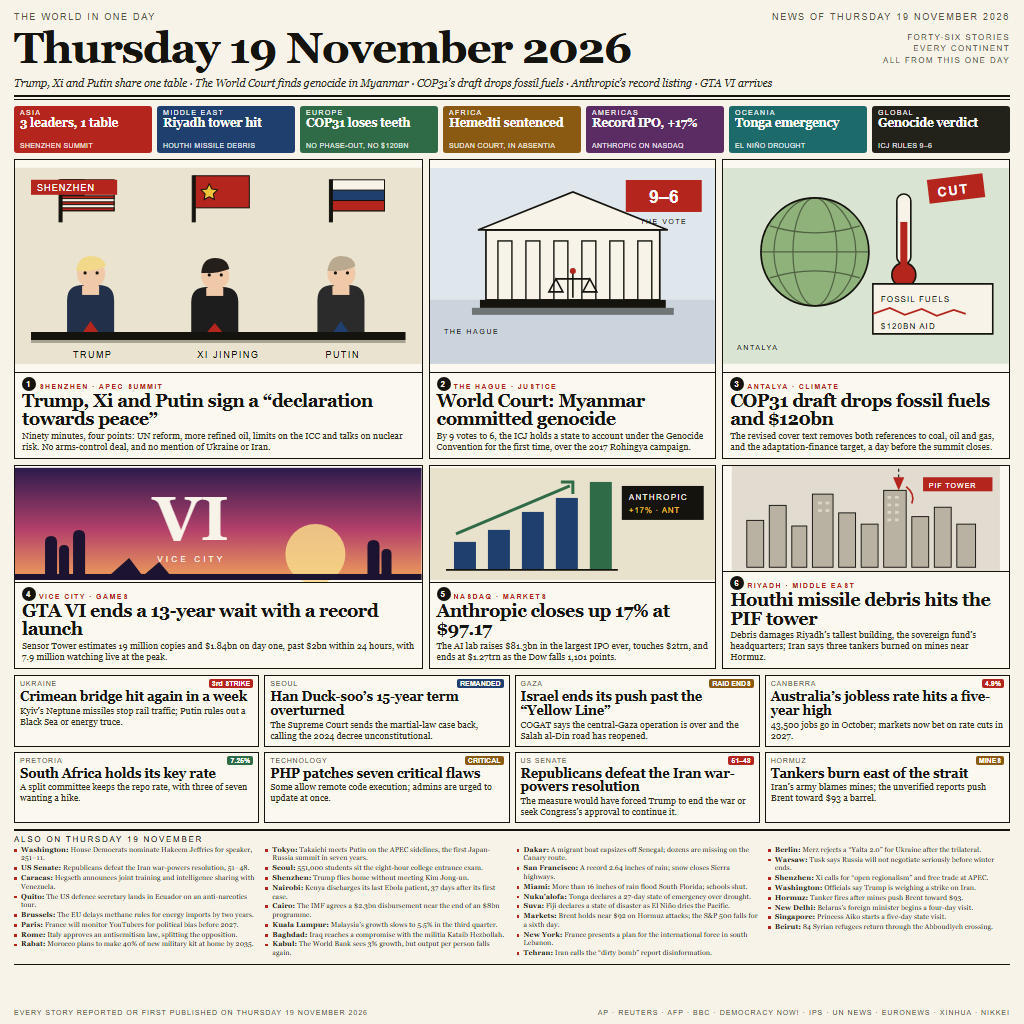
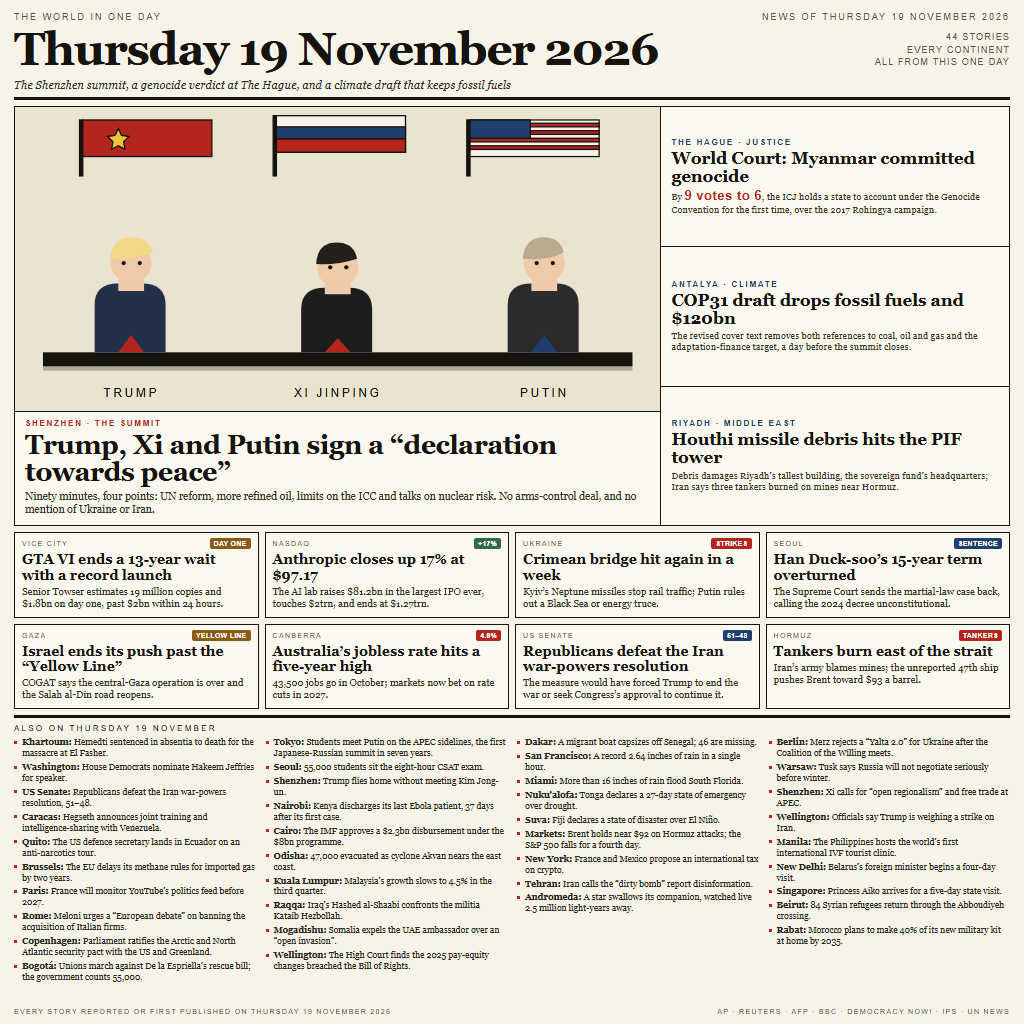
Add a hierarchy-first front page: one lead, three follow-ups

diff --git a/design/v4-hierarchy.html b/design/v4-hierarchy.html
@@ -1,0 +1,239 @@
+<!doctype html>
+<html lang="en">
+<head>
+<meta charset="utf-8">
+<title>Thursday 19 November 2026 — one lead, three follow-ups</title>
+<style>
+  * { box-sizing: border-box; margin: 0; padding: 0; }
+  html, body { width: 1024px; height: 1024px; }
+  body { background: #f7f3e8; color: #14130e; font-family: Georgia, "Times New Roman", serif; -webkit-font-smoothing: antialiased; }
+  .page { width: 1024px; height: 1024px; padding: 12px 14px 8px; display: flex; flex-direction: column; gap: 6px; }
+
+  .hrow { display: flex; justify-content: space-between; align-items: baseline; font-family: Arial, Helvetica, sans-serif;
+    font-size: 9px; letter-spacing: 2px; text-transform: uppercase; color: #57543f; }
+  .mast { display: flex; align-items: flex-end; justify-content: space-between; }
+  h1 { font-size: 46px; line-height: .94; letter-spacing: -1.4px; font-weight: 700; }
+  .mastnote { text-align: right; font-family: Arial, Helvetica, sans-serif; font-size: 8.5px; letter-spacing: 1.5px;
+    text-transform: uppercase; color: #57543f; line-height: 1.45; padding-bottom: 3px; }
+  .sub { font-size: 11.4px; font-style: italic; color: #2f2d22; margin-top: 2px; }
+  .rule2 { border-top: 3px solid #14130e; }
+  .rule1 { border-top: 1.4px solid #14130e; }
+
+  .hero { display: grid; grid-template-columns: 1.86fr 1fr; gap: 0; border: 1.6px solid #14130e; background: #fbf8ef; height: 420px; }
+  .lead { display: flex; flex-direction: column; border-right: 1.6px solid #14130e; overflow: hidden; }
+  .lead .art { flex: 1; min-height: 0; }
+  .lead .art svg { width: 100%; height: 100%; display: block; }
+  .lead .cap { padding: 7px 10px 9px; border-top: 1.6px solid #14130e; }
+  .k { font-family: Arial, Helvetica, sans-serif; font-size: 8px; letter-spacing: 1.7px; text-transform: uppercase; color: #b3251d; font-weight: 700; }
+  .lead h2 { font-size: 27px; line-height: 1.02; letter-spacing: -.55px; margin: 3px 0 4px; }
+  .lead p { font-size: 10.6px; line-height: 1.25; color: #33311f; }
+
+  .side { display: flex; flex-direction: column; }
+  .sitem { flex: 1; padding: 8px 10px; display: flex; flex-direction: column; justify-content: center; }
+  .sitem + .sitem { border-top: 1.4px solid #14130e; }
+  .sitem .k { color: #1f3f6e; }
+  .sitem h3 { font-size: 17.4px; line-height: 1.04; letter-spacing: -.3px; margin: 2px 0 3px; }
+  .sitem p { font-size: 9.4px; line-height: 1.22; color: #33311f; }
+  .sitem .big { font-family: Arial, Helvetica, sans-serif; font-weight: 700; font-size: 13px; letter-spacing: .5px; color: #b3251d; }
+
+  .cards { display: grid; grid-template-columns: repeat(4, 1fr); gap: 6px; }
+  .card { border: 1.3px solid #14130e; background: #fbf8ef; padding: 5px 7px 7px; display: flex; flex-direction: column; }
+  .card .top { display: flex; align-items: center; justify-content: space-between; margin-bottom: 3px; }
+  .card .tag { font-family: Arial, Helvetica, sans-serif; font-size: 7.2px; letter-spacing: 1.2px; text-transform: uppercase; color: #57543f; }
+  .card h3 { font-size: 14.4px; line-height: 1.06; margin-bottom: 3px; letter-spacing: -.15px; }
+  .card p { font-size: 9.8px; line-height: 1.22; color: #33311f; }
+  .card .badge { font-family: Arial, Helvetica, sans-serif; font-size: 7.4px; font-weight: 700; padding: 1px 4px; border-radius: 2px; color: #fff; }
+
+  .ticker { border-top: 3px solid #14130e; padding-top: 5px; display: grid; grid-template-columns: repeat(4, 1fr); gap: 0 10px; }
+  .ticker .h { grid-column: 1 / -1; font-family: Arial, Helvetica, sans-serif; font-size: 8.4px; letter-spacing: 2px;
+    text-transform: uppercase; color: #14130e; margin-bottom: 4px; }
+  .item { font-size: 8.7px; line-height: 1.26; padding-left: 8px; position: relative; margin-bottom: 3px; color: #26251b; }
+  .item:before { content: ""; position: absolute; left: 0; top: 3.6px; width: 3px; height: 3px; background: #b3251d; }
+  .item b { font-weight: 700; }
+
+  .foot { margin-top: auto; display: flex; justify-content: space-between; font-family: Arial, Helvetica, sans-serif;
+    font-size: 7.2px; letter-spacing: 1.2px; text-transform: uppercase; color: #57543f; }
+</style>
+</head>
+<body>
+<div class="page">
+
+  <div class="hrow"><span>The world in one day</span><span>News of Thursday 19 November 2026</span></div>
+  <div class="mast">
+    <h1>Thursday 19 November 2026</h1>
+    <div class="mastnote">44 stories<br>Every continent<br>All from this one day</div>
+  </div>
+  <div class="sub">The Shenzhen summit, a genocide verdict at The Hague, and a climate draft that keeps fossil fuels</div>
+  <div class="rule2"></div>
+
+  <div class="hero">
+    <div class="lead">
+      <div class="art">
+        <svg viewBox="0 0 600 290" preserveAspectRatio="xMidYMid slice">
+          <rect width="600" height="290" fill="#e9e3cf"/>
+          <g stroke="#14130e" stroke-width="1.2">
+            <rect x="60" y="16" width="3" height="52" fill="#14130e"/>
+            <rect x="63" y="16" width="120" height="34" fill="#b3251d"/>
+            <path d="M96 24 l3 6.4 7 1 -5 4.9 1.2 7 -6.2-3.4 -6.2 3.4 1.2-7 -5-4.9 7-1z" fill="#f0c33c"/>
+            <rect x="240" y="12" width="3" height="56" fill="#14130e"/>
+            <rect x="243" y="12" width="120" height="34" fill="#f7f3e8"/>
+            <rect x="243" y="22.4" width="120" height="11.2" fill="#1f3f6e"/>
+            <rect x="243" y="33.6" width="120" height="12.4" fill="#b3251d"/>
+            <rect x="420" y="16" width="3" height="52" fill="#14130e"/>
+            <rect x="423" y="16" width="120" height="34" fill="#f7f3e8"/>
+            <g fill="#b3251d"><rect x="423" y="19" width="120" height="3.4"/><rect x="423" y="26" width="120" height="3.4"/><rect x="423" y="33" width="120" height="3.4"/><rect x="423" y="40" width="120" height="3.4"/></g>
+            <rect x="423" y="16" width="56" height="17" fill="#1f3f6e"/>
+          </g>
+          <rect x="26" y="232" width="548" height="13" fill="#14130e"/>
+          <rect x="26" y="245" width="548" height="4" fill="#14130e" opacity=".28"/>
+          <g>
+            <path d="M74 232 v-44 q0-20 22-20 h22 q22 0 22 20 v44z" fill="#22304a"/>
+            <path d="M96 164 h24 v11 h-24z" fill="#f0c9a8"/>
+            <circle cx="108" cy="149" r="19" fill="#f0c9a8"/>
+            <path d="M88 145 q2-20 20-20 q17 0 20 14 q-16 8-40 6z" fill="#f2d98a"/>
+            <circle cx="101" cy="149" r="2" fill="#14130e"/><circle cx="116" cy="149" r="2" fill="#14130e"/>
+            <path d="M96 232 h24 l-12-16z" fill="#b3251d"/>
+          </g>
+          <g>
+            <path d="M266 232 v-40 q0-20 22-20 h22 q22 0 22 20 v40z" fill="#1d1d1d"/>
+            <path d="M288 168 h24 v10 h-24z" fill="#f0c9a8"/>
+            <circle cx="300" cy="153" r="19" fill="#f0c9a8"/>
+            <path d="M280 150 q1-20 19-20 q16 0 19 15 q-18 6-38 5z" fill="#241f1a"/>
+            <circle cx="293" cy="153" r="2" fill="#14130e"/><circle cx="308" cy="153" r="2" fill="#14130e"/>
+            <path d="M288 232 h24 l-12-13z" fill="#b3251d"/>
+          </g>
+          <g>
+            <path d="M458 232 v-44 q0-20 22-20 h22 q22 0 22 20 v44z" fill="#2b2b2b"/>
+            <path d="M480 164 h24 v11 h-24z" fill="#f0c9a8"/>
+            <circle cx="492" cy="149" r="19" fill="#f0c9a8"/>
+            <path d="M472 145 q2-20 19-20 q16 0 19 14 q-12 8-38 6z" fill="#b9a98e"/>
+            <circle cx="485" cy="149" r="2" fill="#14130e"/><circle cx="500" cy="149" r="2" fill="#14130e"/>
+            <path d="M480 232 h24 l-12-16z" fill="#1f3f6e"/>
+          </g>
+          <g font-family="Arial" font-size="11.5" letter-spacing="2.2" fill="#14130e" text-anchor="middle">
+            <text x="108" y="274">TRUMP</text><text x="300" y="274">XI JINPING</text><text x="492" y="274">PUTIN</text>
+          </g>
+        </svg>
+      </div>
+      <div class="cap">
+        <div class="k">Shenzhen &middot; The summit</div>
+        <h2>Trump, Xi and Putin sign a &ldquo;declaration towards peace&rdquo;</h2>
+        <p>Ninety minutes, four points: UN reform, more refined oil, limits on the ICC and talks on nuclear risk. No arms-control deal, and no mention of Ukraine or Iran.</p>
+      </div>
+    </div>
+    <div class="side">
+      <div class="sitem">
+        <div class="k">The Hague &middot; Justice</div>
+        <h3>World Court: Myanmar committed genocide</h3>
+        <p>By <span class="big">9 votes to 6</span>, the ICJ holds a state to account under the Genocide Convention for the first time, over the 2017 Rohingya campaign.</p>
+      </div>
+      <div class="sitem">
+        <div class="k">Antalya &middot; Climate</div>
+        <h3>COP31 draft drops fossil fuels and $120bn</h3>
+        <p>The revised cover text removes both references to coal, oil and gas and the adaptation-finance target, a day before the summit closes.</p>
+      </div>
+      <div class="sitem">
+        <div class="k">Riyadh &middot; Middle East</div>
+        <h3>Houthi missile debris hits the PIF tower</h3>
+        <p>Debris damages Riyadh&rsquo;s tallest building, the sovereign fund&rsquo;s headquarters; Iran says three tankers burned on mines near Hormuz.</p>
+      </div>
+    </div>
+  </div>
+
+  <div class="cards">
+    <div class="card">
+      <div class="top"><span class="tag">Vice City</span><span class="badge" style="background:#8a5a12">DAY ONE</span></div>
+      <h3>GTA VI ends a 13-year wait with a record launch</h3>
+      <p>Senior Towser estimates 19 million copies and $1.8bn on day one, past $2bn within 24 hours.</p>
+    </div>
+    <div class="card">
+      <div class="top"><span class="tag">Nasdaq</span><span class="badge" style="background:#2f6b46">+17%</span></div>
+      <h3>Anthropic closes up 17% at $97.17</h3>
+      <p>The AI lab raises $81.2bn in the largest IPO ever, touches $2trn, and ends at $1.27trn.</p>
+    </div>
+    <div class="card">
+      <div class="top"><span class="tag">Ukraine</span><span class="badge" style="background:#b3251d">STRIKES</span></div>
+      <h3>Crimean bridge hit again in a week</h3>
+      <p>Kyiv&rsquo;s Neptune missiles stop rail traffic; Putin rules out a Black Sea or energy truce.</p>
+    </div>
+    <div class="card">
+      <div class="top"><span class="tag">Seoul</span><span class="badge" style="background:#1f3f6e">SENTENCE</span></div>
+      <h3>Han Duck-soo&rsquo;s 15-year term overturned</h3>
+      <p>The Supreme Court sends the martial-law case back, calling the 2024 decree unconstitutional.</p>
+    </div>
+    <div class="card">
+      <div class="top"><span class="tag">Gaza</span><span class="badge" style="background:#8a5a12">YELLOW LINE</span></div>
+      <h3>Israel ends its push past the &ldquo;Yellow Line&rdquo;</h3>
+      <p>COGAT says the central-Gaza operation is over and the Salah al-Din road reopens.</p>
+    </div>
+    <div class="card">
+      <div class="top"><span class="tag">Canberra</span><span class="badge" style="background:#b3251d">4.9%</span></div>
+      <h3>Australia&rsquo;s jobless rate hits a five-year high</h3>
+      <p>43,500 jobs go in October; markets now bet on rate cuts in 2027.</p>
+    </div>
+    <div class="card">
+      <div class="top"><span class="tag">US Senate</span><span class="badge" style="background:#1f3f6e">51&ndash;48</span></div>
+      <h3>Republicans defeat the Iran war-powers resolution</h3>
+      <p>The measure would have forced Trump to end the war or seek Congress&rsquo;s approval to continue it.</p>
+    </div>
+    <div class="card">
+      <div class="top"><span class="tag">Hormuz</span><span class="badge" style="background:#b3251d">TANKERS</span></div>
+      <h3>Tankers burn east of the strait</h3>
+      <p>Iran&rsquo;s army blames mines; the unreported 47th ship pushes Brent toward $93 a barrel.</p>
+    </div>
+  </div>
+
+  <div class="ticker">
+    <div class="h">Also on Thursday 19 November</div>
+    <div>
+      <div class="item"><b>Khartoum:</b> Hemedti sentenced in absentia to death for the massacre at El Fasher.</div>
+      <div class="item"><b>Washington:</b> House Democrats nominate Hakeem Jeffries for speaker.</div>
+      <div class="item"><b>US Senate:</b> Republicans defeat the Iran war-powers resolution, 51&ndash;48.</div>
+      <div class="item"><b>Caracas:</b> Hegseth announces joint training and intelligence-sharing with Venezuela.</div>
+      <div class="item"><b>Quito:</b> The US defence secretary lands in Ecuador on an anti-narcotics tour.</div>
+      <div class="item"><b>Brussels:</b> The EU delays its methane rules for imported gas by two years.</div>
+      <div class="item"><b>Paris:</b> France will monitor YouTube&rsquo;s politics feed before 2027.</div>
+      <div class="item"><b>Rome:</b> Meloni urges a &ldquo;European debate&rdquo; on banning the acquisition of Italian firms.</div>
+      <div class="item"><b>Copenhagen:</b> Parliament ratifies the Arctic and North Atlantic security pact with the US and Greenland.</div>
+      <div class="item"><b>Bogot&aacute;:</b> Unions march against De la Espriella&rsquo;s rescue bill; the government counts 55,000.</div>
+    </div>
+    <div>
+      <div class="item"><b>Tokyo:</b> Students meet Putin on the APEC sidelines, the first Japanese-Russian summit in seven years.</div>
+      <div class="item"><b>Seoul:</b> 55,000 students sit the eight-hour CSAT exam.</div>
+      <div class="item"><b>Shenzhen:</b> Trump flies home without meeting Kim Jong-un.</div>
+      <div class="item"><b>Nairobi:</b> Kenya discharges its last Ebola patient, 37 days after its first case.</div>
+      <div class="item"><b>Cairo:</b> The IMF approves a $2.3bn disbursement under the $8bn programme.</div>
+      <div class="item"><b>Odisha:</b> 47,000 evacuated as cyclone Akvan nears the east coast.</div>
+      <div class="item"><b>Kuala Lumpur:</b> Malaysia&rsquo;s growth slows to 4.5% in the third quarter.</div>
+      <div class="item"><b>Raqqa:</b> Iraq&rsquo;s Hashed al-Shaabi confronts the militia Kataib Hezbollah.</div>
+      <div class="item"><b>Mogadishu:</b> Somalia expels the UAE ambassador over an &ldquo;open invasion&rdquo;.</div>
+      <div class="item"><b>Wellington:</b> The High Court finds the 2025 pay-equity changes breached the Bill of Rights.</div>
+    </div>
+    <div>
+      <div class="item"><b>Dakar:</b> A migrant boat capsizes off Senegal; 46 are missing.</div>
+      <div class="item"><b>San Francisco:</b> A record 2.64 inches of rain in a single hour.</div>
+      <div class="item"><b>Miami:</b> More than 16 inches of rain flood South Florida.</div>
+      <div class="item"><b>Nuku&rsquo;alofa:</b> Tonga declares a 27-day state of emergency over drought.</div>
+      <div class="item"><b>Suva:</b> Fiji declares a state of disaster over El Ni&ntilde;o.</div>
+      <div class="item"><b>Markets:</b> Brent holds near $92 on Hormuz attacks; the S&amp;P 500 falls for a fourth day.</div>
+      <div class="item"><b>New York:</b> France and Mexico propose an international tax on crypto.</div>
+      <div class="item"><b>Tehran:</b> Iran calls the &ldquo;dirty bomb&rdquo; report disinformation.</div>
+      <div class="item"><b>Andromeda:</b> A star swallows its companion, watched live 2.5 million light-years away.</div>
+    </div>
+    <div>
+      <div class="item"><b>Berlin:</b> Merz rejects a &ldquo;Yalta 2.0&rdquo; for Ukraine after the Coalition of the Willing meets.</div>
+      <div class="item"><b>Warsaw:</b> Tusk says Russia will not negotiate seriously before winter.</div>
+      <div class="item"><b>Shenzhen:</b> Xi calls for &ldquo;open regionalism&rdquo; and free trade at APEC.</div>
+      <div class="item"><b>Wellington:</b> Officials say Trump is weighing a strike on Iran.</div>
+      <div class="item"><b>Manila:</b> The Philippines hosts the world&rsquo;s first international IVF tourist clinic.</div>
+      <div class="item"><b>New Delhi:</b> Belarus&rsquo;s foreign minister begins a four-day visit.</div>
+      <div class="item"><b>Singapore:</b> Princess Aiko arrives for a five-day state visit.</div>
+      <div class="item"><b>Beirut:</b> 84 Syrian refugees return through the Abboudiyeh crossing.</div>
+      <div class="item"><b>Rabat:</b> Morocco plans to make 40% of its new military kit at home by 2035.</div>
+    </div>
+  </div>
+
+  <div class="foot"><span>Every story reported or first published on Thursday 19 November 2026</span><span>AP &middot; Reuters &middot; AFP &middot; BBC &middot; Democracy Now! &middot; IPS &middot; UN News</span></div>
+</div>
+</body>
+</html>

diff --git a/design/v5-numbers.html b/design/v5-numbers.html
@@ -1,0 +1,151 @@
+<!doctype html>
+<html lang="en">
+<head>
+<meta charset="utf-8">
+<title>Thursday 19 November 2026 — the day in numbers</title>
+<style>
+  * { box-sizing: border-box; margin: 0; padding: 0; }
+  html, body { width: 1024px; height: 1024px; }
+  body { background: #f7f3e8; color: #14130e; font-family: Georgia, "Times New Roman", serif; -webkit-font-smoothing: antialiased; }
+  .page { width: 1024px; height: 1024px; padding: 12px 14px 8px; display: flex; flex-direction: column; gap: 7px; }
+
+  .hrow { display: flex; justify-content: space-between; align-items: baseline; font-family: Arial, Helvetica, sans-serif;
+    font-size: 9px; letter-spacing: 2px; text-transform: uppercase; color: #57543f; }
+  .mast { display: flex; align-items: flex-end; justify-content: space-between; }
+  h1 { font-size: 46px; line-height: .94; letter-spacing: -1.4px; font-weight: 700; }
+  .mastnote { text-align: right; font-family: Arial, Helvetica, sans-serif; font-size: 8.5px; letter-spacing: 1.5px;
+    text-transform: uppercase; color: #57543f; line-height: 1.45; padding-bottom: 3px; }
+  .sub { font-size: 11.4px; font-style: italic; color: #2f2d22; margin-top: 2px; }
+  .rule2 { border-top: 3px solid #14130e; }
+
+  .stats { display: grid; grid-template-columns: repeat(4, 1fr); grid-template-rows: repeat(2, 1fr); gap: 8px; flex: 1; min-height: 0; }
+  .stat { border: 1.5px solid #14130e; background: #fbf8ef; padding: 8px 10px 9px; display: flex; flex-direction: column; overflow: hidden; position: relative; }
+  .stat::after { content: attr(data-wm); position: absolute; right: -4px; bottom: -30px; font-family: Arial, Helvetica, sans-serif;
+    font-weight: 700; font-size: 168px; letter-spacing: -8px; line-height: 1; color: rgba(20,19,14,.055); pointer-events: none; }
+  .stat .top { height: 5px; margin: -8px -10px 7px; }
+  .stat .n { font-family: Arial, Helvetica, sans-serif; font-size: 62px; line-height: .92; font-weight: 700; letter-spacing: -2.4px; }
+  .stat .l { font-family: Arial, Helvetica, sans-serif; font-size: 7.8px; letter-spacing: 1.5px; text-transform: uppercase; color: #57543f; margin: 5px 0 4px; }
+  .stat h3 { font-size: 17.6px; line-height: 1.04; letter-spacing: -.3px; margin-bottom: 4px; }
+  .stat p { margin-top: 8px; font-size: 10.2px; line-height: 1.24; color: #33311f; border-top: 1px solid rgba(20,19,14,.25); padding-top: 6px; position: relative; z-index: 1; }
+  .c1 { background: #b3251d; } .c2 { background: #1f3f6e; } .c3 { background: #2f6b46; } .c4 { background: #8a5a12; }
+  .c5 { background: #5b2b63; } .c6 { background: #1c6a6a; } .c7 { background: #23221a; } .c8 { background: #7a2418; }
+
+  .list { border-top: 3px solid #14130e; padding-top: 5px; display: grid; grid-template-columns: repeat(3, 1fr); gap: 0 12px; }
+  .list .h { grid-column: 1 / -1; font-family: Arial, Helvetica, sans-serif; font-size: 8.4px; letter-spacing: 2px;
+    text-transform: uppercase; color: #14130e; margin-bottom: 4px; }
+  .item { font-size: 9.2px; line-height: 1.26; padding-left: 8px; position: relative; margin-bottom: 4px; color: #26251b; }
+  .item:before { content: ""; position: absolute; left: 0; top: 3.6px; width: 3px; height: 3px; background: #b3251d; }
+  .item b { font-weight: 700; }
+
+  .foot { margin-top: auto; display: flex; justify-content: space-between; font-family: Arial, Helvetica, sans-serif;
+    font-size: 7.2px; letter-spacing: 1.2px; text-transform: uppercase; color: #57543f; }
+</style>
+</head>
+<body>
+<div class="page">
+
+  <div class="hrow"><span>The world in one day</span><span>News of Thursday 19 November 2026</span></div>
+  <div class="mast">
+    <h1>Thursday 19 November 2026</h1>
+    <div class="mastnote">The day in numbers<br>Twelve stories, ten countries<br>All from this one day</div>
+  </div>
+  <div class="sub">A genocide verdict, a blocked war-powers vote, a record listing, and a climate text that keeps fossil fuels</div>
+  <div class="rule2"></div>
+
+  <div class="stats">
+    <div class="stat" data-wm="9&ndash;6">
+      <div class="top c1"></div>
+      <div class="n">9&ndash;6</div>
+      <div class="l">The Hague &middot; Genocide verdict</div>
+      <h3>The World Court holds Myanmar to account</h3>
+      <p>For the first time, the ICJ finds a state guilty under the Genocide Convention, over the 2017 Rohingya campaign.</p>
+    </div>
+    <div class="stat" data-wm="51&ndash;48">
+      <div class="top c2"></div>
+      <div class="n">51&ndash;48</div>
+      <div class="l">Washington &middot; Iran war powers</div>
+      <h3>The Senate blocks its own war-powers vote</h3>
+      <p>Republicans defeat the resolution that would have forced Trump to end the war or seek Congress&rsquo;s approval.</p>
+    </div>
+    <div class="stat" data-wm="+17%">
+      <div class="top c3"></div>
+      <div class="n">+17%</div>
+      <div class="l">Nasdaq &middot; Anthropic</div>
+      <h3>The largest IPO ever closes at $97.17</h3>
+      <p>The AI lab raises $81.2bn, touches a $2trn valuation and ends the session at $1.27trn.</p>
+    </div>
+    <div class="stat" data-wm="$120bn">
+      <div class="top c4"></div>
+      <div class="n">$120bn</div>
+      <div class="l">Antalya &middot; COP31</div>
+      <h3>The climate draft drops fossil fuels and the adaptation fund</h3>
+      <p>The revised cover text removes every reference to coal, oil and gas, a day before the summit closes.</p>
+    </div>
+    <div class="stat" data-wm="$93">
+      <div class="top c5"></div>
+      <div class="n">$93</div>
+      <div class="l">Hormuz &middot; Oil</div>
+      <h3>Tankers burn and Brent climbs toward $93</h3>
+      <p>Iran&rsquo;s army blames mines; the unreported 47th ship pushes crude to its highest in months.</p>
+    </div>
+    <div class="stat" data-wm="3">
+      <div class="top c6"></div>
+      <div class="n">3</div>
+      <div class="l">Shenzhen &middot; The summit</div>
+      <h3>Trump, Xi and Putin sign a &ldquo;declaration towards peace&rdquo;</h3>
+      <p>Ninety minutes, four points: UN reform, refined oil, limits on the ICC, talks on nuclear risk. No mention of Ukraine.</p>
+    </div>
+    <div class="stat" data-wm="47,000">
+      <div class="top c7"></div>
+      <div class="n">47,000</div>
+      <div class="l">Odisha &middot; Cyclone Akvan</div>
+      <h3>India evacuates its coast for the third storm in a month</h3>
+      <p>Akvan is due to cross the east coast on Friday, the third severe cyclone since October.</p>
+    </div>
+    <div class="stat" data-wm="19m">
+      <div class="top c8"></div>
+      <div class="n">19m</div>
+      <div class="l">Vice City &middot; GTA VI</div>
+      <h3>A 13-year wait ends with the biggest launch in games</h3>
+      <p>Senior Towser estimates 19 million copies and $1.8bn on day one, past $2bn within 24 hours.</p>
+    </div>
+  </div>
+
+  <div class="list">
+    <div class="h">Also on Thursday 19 November</div>
+    <div>
+      <div class="item"><b>Khartoum:</b> Hemedti sentenced in absentia to death for the El Fasher massacre.</div>
+      <div class="item"><b>Riyadh:</b> Houthi missile debris hits the PIF tower; three tankers burn near Hormuz.</div>
+      <div class="item"><b>Kyiv:</b> Neptune missiles hit the Crimean bridge again; Putin rules out a truce.</div>
+      <div class="item"><b>Seoul:</b> The Supreme Court overturns Han Duck-soo&rsquo;s 15-year sentence.</div>
+      <div class="item"><b>Gaza:</b> Israel ends its push past the &ldquo;Yellow Line&rdquo;; the Salah al-Din road reopens.</div>
+      <div class="item"><b>Canberra:</b> Unemployment hits 4.9%, a five-year high; 43,500 jobs go.</div>
+      <div class="item"><b>Quito:</b> Hegseth lands in Ecuador on an anti-narcotics tour.</div>
+      <div class="item"><b>Caracas:</b> Washington announces joint training with Venezuela&rsquo;s army.</div>
+    </div>
+    <div>
+      <div class="item"><b>Berlin:</b> Merz rejects a &ldquo;Yalta 2.0&rdquo; for Ukraine.</div>
+      <div class="item"><b>Warsaw:</b> Tusk says Russia will not negotiate seriously before winter.</div>
+      <div class="item"><b>Shenzhen:</b> Trump flies home without meeting Kim Jong-un.</div>
+      <div class="item"><b>Shenzhen:</b> Xi calls for &ldquo;open regionalism&rdquo; and free trade at APEC.</div>
+      <div class="item"><b>Tehran:</b> Iran calls the &ldquo;dirty bomb&rdquo; report disinformation.</div>
+      <div class="item"><b>Tokyo:</b> Students meet Putin on the APEC sidelines, the first Japan-Russia summit in seven years.</div>
+      <div class="item"><b>Nairobi:</b> Kenya discharges its last Ebola patient.</div>
+      <div class="item"><b>Cairo:</b> The IMF approves a $2.3bn disbursement.</div>
+    </div>
+    <div>
+      <div class="item"><b>Dakar:</b> A migrant boat capsizes off Senegal; 46 are missing.</div>
+      <div class="item"><b>Miami:</b> More than 16 inches of rain flood South Florida.</div>
+      <div class="item"><b>Nuku&rsquo;alofa:</b> Tonga declares a 27-day state of emergency over drought.</div>
+      <div class="item"><b>Suva:</b> Fiji declares a state of disaster over El Ni&ntilde;o.</div>
+      <div class="item"><b>Copenhagen:</b> Parliament ratifies the Arctic pact with the US and Greenland.</div>
+      <div class="item"><b>Mogadishu:</b> Somalia expels the UAE ambassador over an &ldquo;open invasion&rdquo;.</div>
+      <div class="item"><b>Brussels:</b> The EU delays its methane rules for imported gas by two years.</div>
+      <div class="item"><b>Beirut:</b> 84 Syrian refugees return through the Abboudiyeh crossing.</div>
+    </div>
+  </div>
+
+  <div class="foot"><span>Every story reported or first published on Thursday 19 November 2026</span><span>AP &middot; Reuters &middot; AFP &middot; BBC &middot; Democracy Now! &middot; IPS &middot; UN News</span></div>
+</div>
+</body>
+</html>
